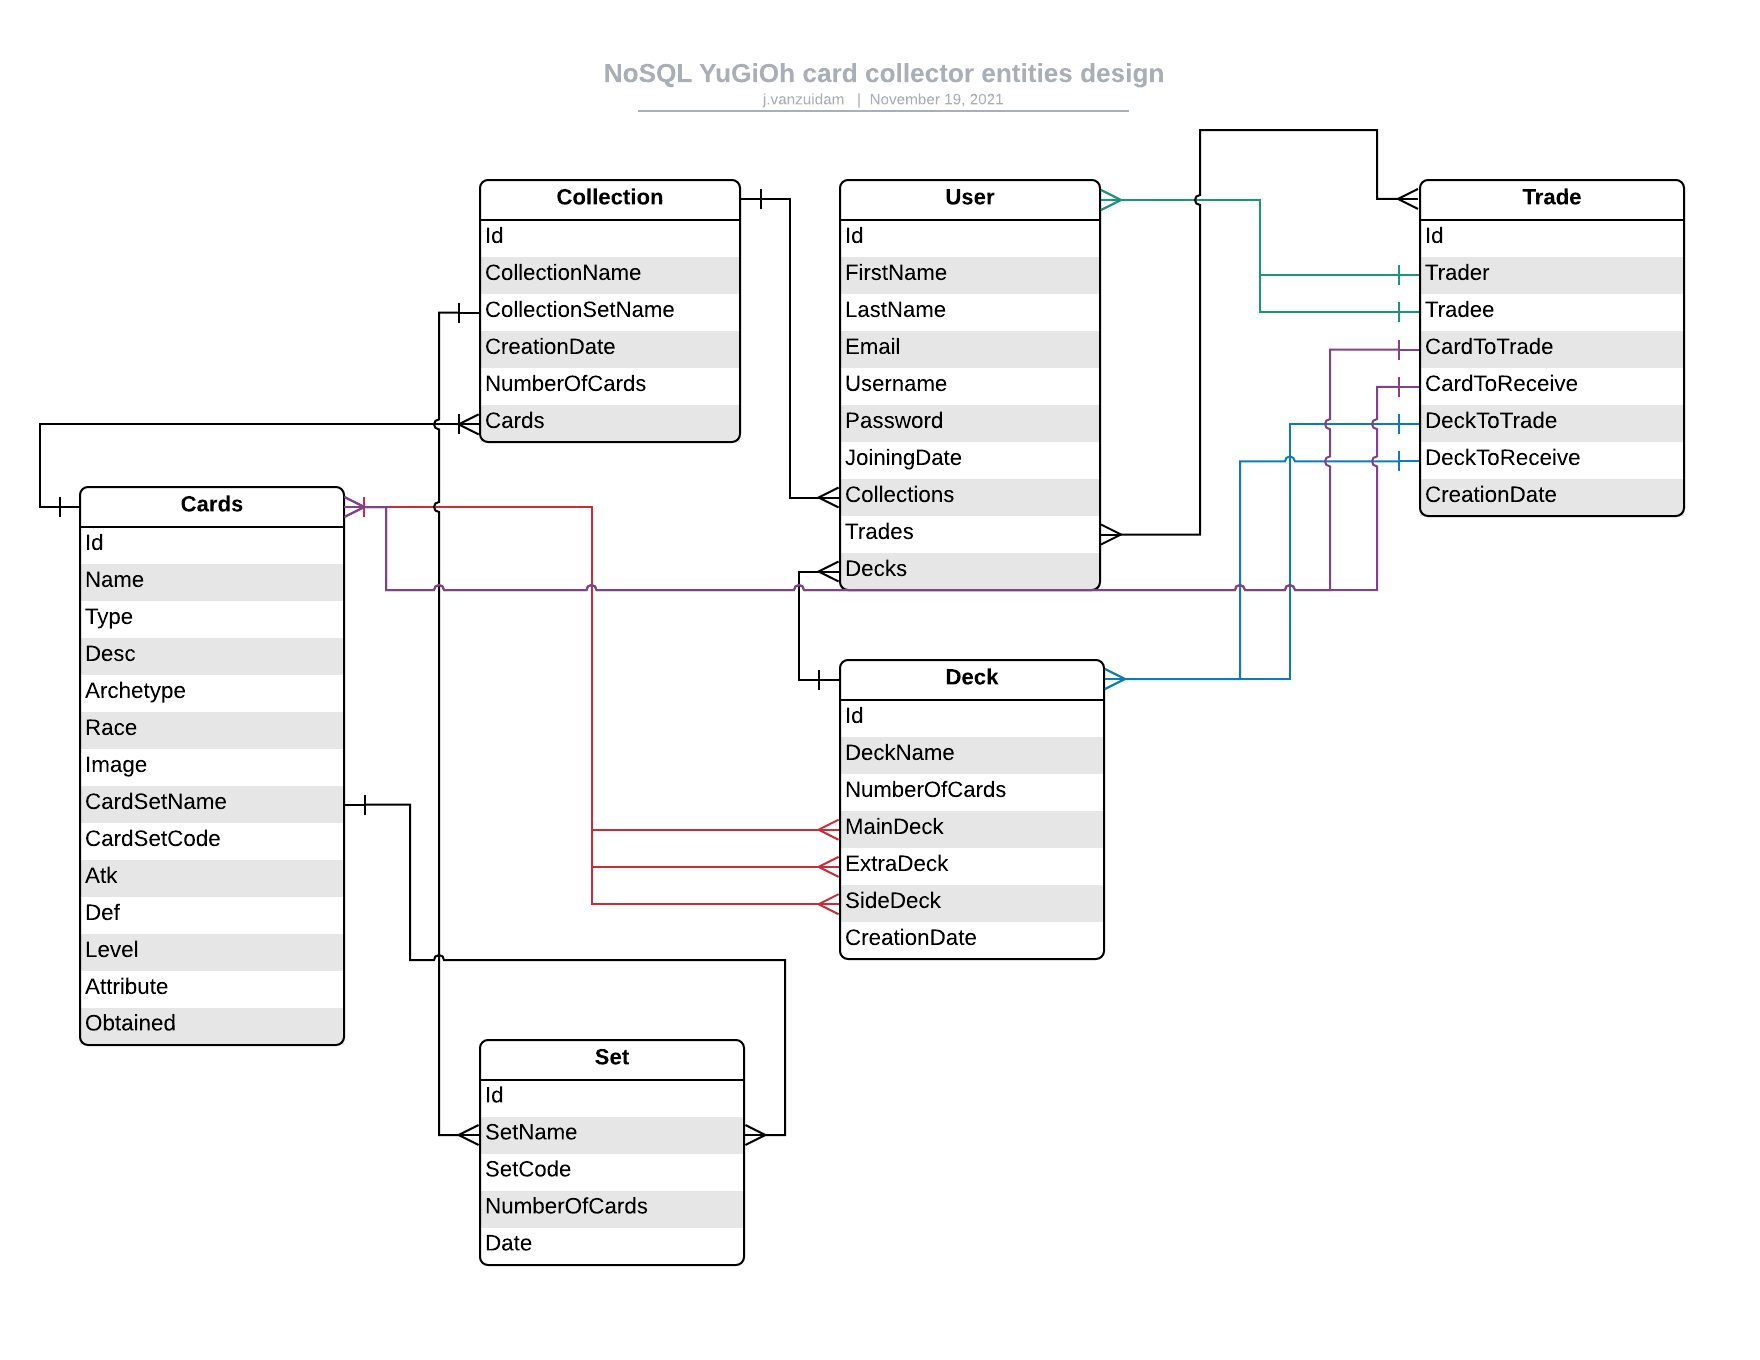
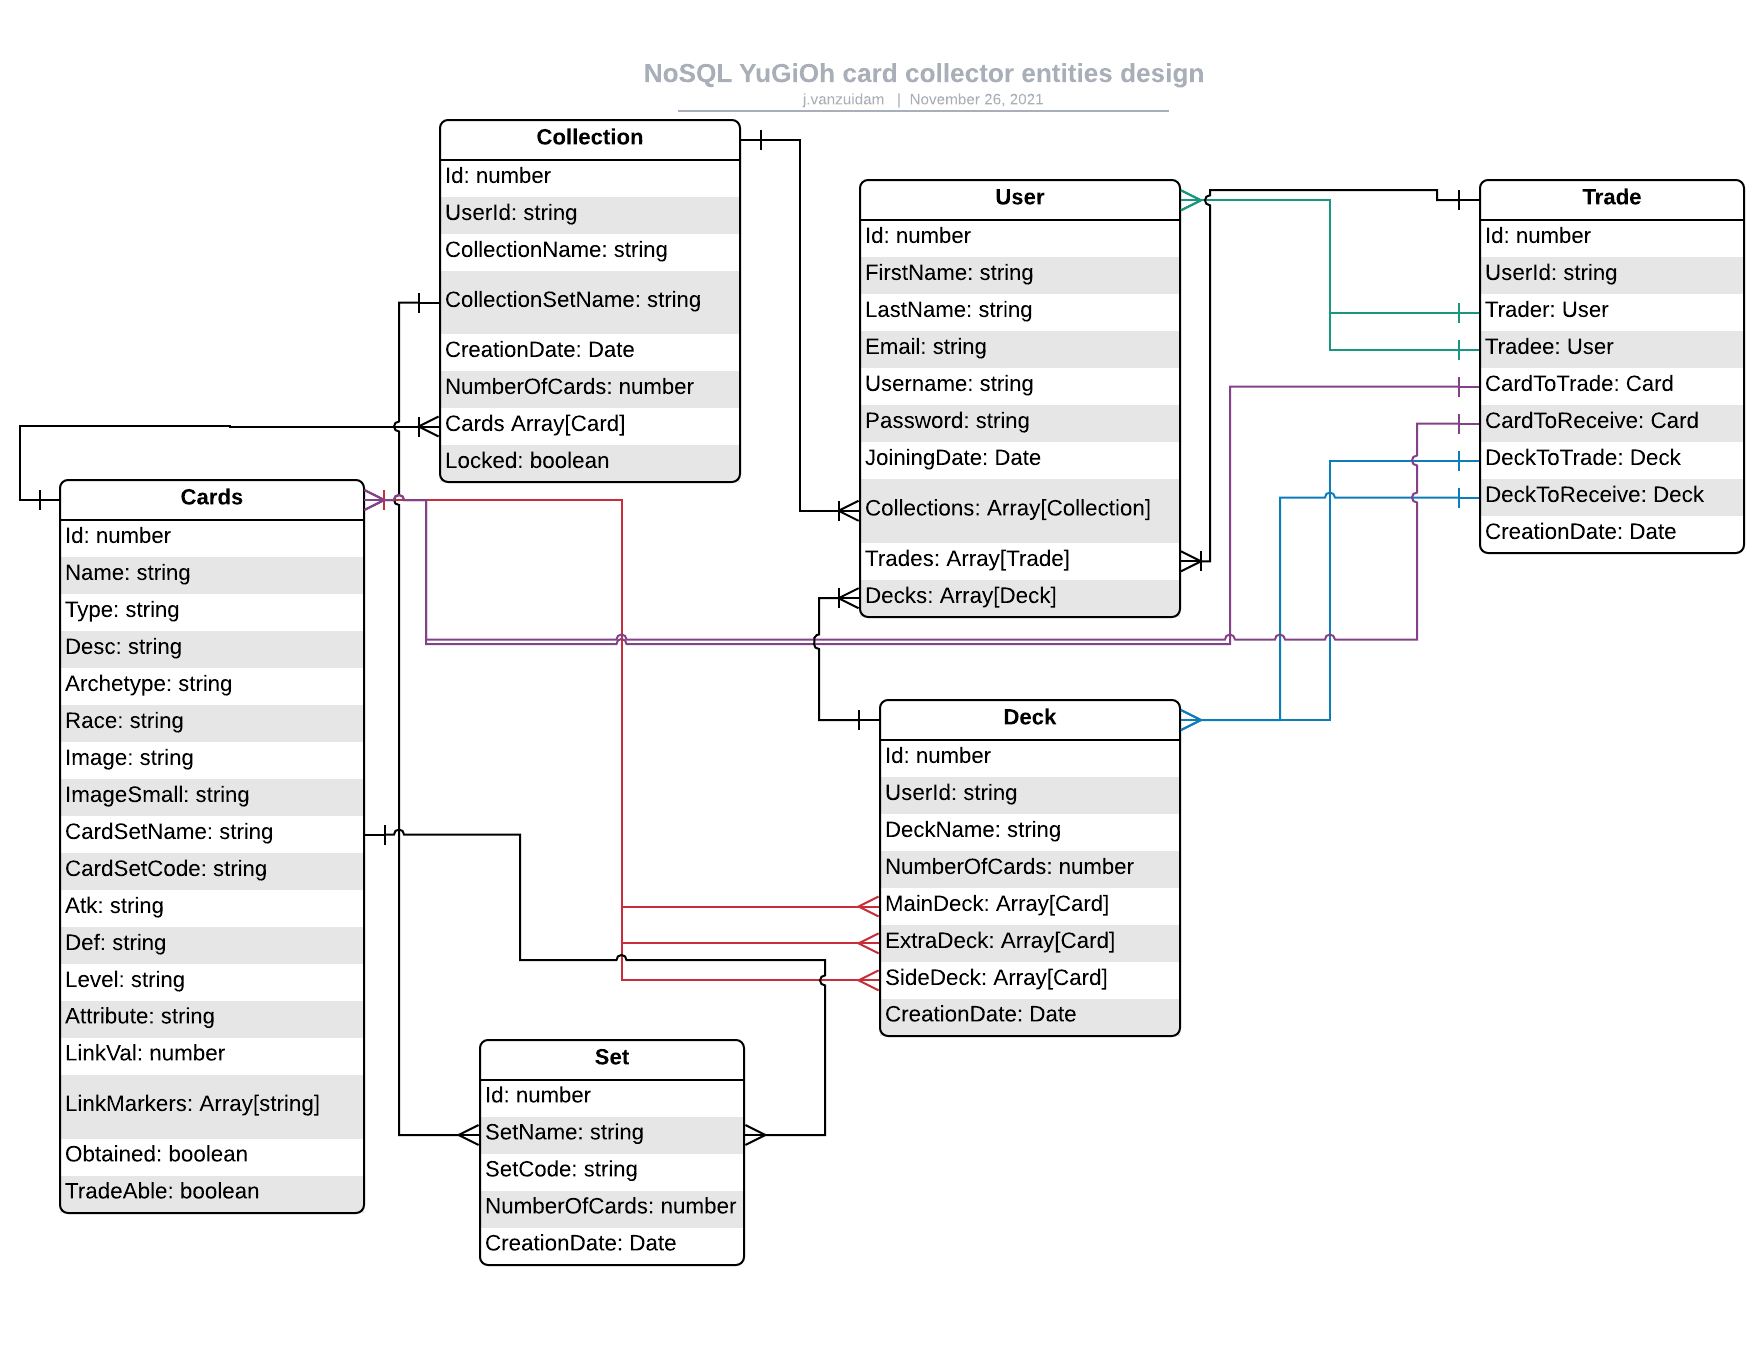
Update collection page + actual frontend edits, extra attributes for the user model

diff --git a/src/app/components/collection/collection-new/collection-new.component.html b/src/app/components/collection/collection-new/collection-new.component.html
@@ -2,30 +2,32 @@
   <div class="row">
     <div class="col-md4 col-md-offset-4">
       <form role="form" class="form-horizontal">
-        <div class="form-group">
-          <label class="col-sm-2 control-label">collection name</label>
-          <div class="col-sm-10">
-            <input type="text" name="collectionName" placeholder="Collection name" class="form-control" required [(ngModel)]="collection.collectionName"  #collectionName="ngModel">
-            <div *ngIf="collectionName.invalid && (collectionName.dirty || collectionName.touched)"
-                 class="alert alert-danger">
-              <div *ngIf="collectionName.errors?.['required']">
-                A name for your collection is required
+        <fieldset>
+          <div class="form-group">
+            <label class="col-sm-2 control-label">collection name</label>
+            <div class="col-sm-10">
+              <input type="text" name="collectionName" placeholder="Collection name" class="form-control" required [(ngModel)]="collection.collectionName"  #collectionName="ngModel">
+              <div *ngIf="collectionName.invalid && (collectionName.dirty || collectionName.touched)"
+                   class="alert alert-danger">
+                <div *ngIf="collectionName.errors?.['required']">
+                  A name for your collection is required
+                </div>
+              </div>
+            </div>
+            <label class="col-sm-2 control-label">Choose your set</label>
+            <div class="col-10">
+              <select [(ngModel)]="setName" [ngModelOptions]="{standalone: true}" required #data="ngModel">
+                <option *ngFor="let data of setNames" [ngValue]="data" > {{data}}</option>
+              </select>
+              <div *ngIf="data.invalid && (data.dirty || data.touched)" class="alert alert-danger">
+                <div *ngIf="data.errors?.['required']">
+                  A name for your collection is required
+                </div>
               </div>
             </div>
           </div>
-          <label class="col-sm-2 control-label">Choose your set</label>
-          <div class="col-10">
-            <select [(ngModel)]="setName" [ngModelOptions]="{standalone: true}" required #data="ngModel">
-              <option *ngFor="let data of setNames" [ngValue]="data" > {{data}}</option>
-            </select>
-            <div *ngIf="data.invalid && (data.dirty || data.touched)" class="alert alert-danger">
-              <div *ngIf="data.errors?.['required']">
-                A name for your collection is required
-              </div>
-            </div>
-          </div>
-        </div>
-        <button [disabled]="(!collection.collectionName || !setName)" type="submit" class="btn btn-primary" (click)="onSubmit(collection.collectionName)">Create</button>
+          <button [disabled]="(!collection.collectionName || !setName)" type="submit" class="btn btn-primary" (click)="onSubmit(collection.collectionName)">Create</button>
+        </fieldset>
       </form>
     </div>
   </div>

diff --git a/src/app/components/collection/collection-edit/collection-edit.component.html b/src/app/components/collection/collection-edit/collection-edit.component.html
@@ -1,1 +1,37 @@
-<p>collection-edit works!</p>
+<div class="container bg-light">
+  <div class="row">
+    <div class="col-md-4 col-md-offset-4">
+      <form class="form-horizontal" role="form">
+        <fieldset>
+          <h1>Edit collection</h1>
+          <div class="form-group">
+            <label class="col-sm-10 control-label">Collection name</label>
+            <div class="col-sm-10">
+              <input type="text" name="firstname" value="{{collection.collectionName}}" placeholder="name" class="form-control" required [(ngModel)]="collection.collectionName" #collectionName="ngModel">
+              <div *ngIf="collectionName.invalid && (collectionName.dirty || collectionName.touched)"
+                   class="alert alert-danger">
+                <div *ngIf="collectionName.errors?.['required']">
+                  A name for your collection is required
+                </div>
+              </div>
+            </div>
+            <label class="col-sm-10 control-label">Lock the collection?</label>
+
+            <div class="col-10">
+              <select [ngModel]="locked" (ngModelChange)="onChange($event)" [ngModelOptions]="{standalone: true}" required #optionSelected="ngModel">
+                <option value="false">No</option>
+                <option value="True">Yes</option>
+              </select>
+              <div *ngIf="optionSelected.invalid && (optionSelected.dirty || optionSelected.touched)" class="alert alert-danger">
+                <div *ngIf="optionSelected.errors?.['required']">
+                  Locked is a required value
+                </div>
+              </div>
+            </div>
+            <button [disabled]="(!collection.collectionName || !optionSelected)" type="submit" class="btn btn-primary" (click)="onSubmit()">Update</button>
+          </div>
+        </fieldset>
+      </form>
+    </div>
+  </div>
+</div>

diff --git a/src/app/services/user.service.ts b/src/app/services/user.service.ts
@@ -13,7 +13,10 @@ export class UserService {
       username: 'SwiftGale',
       email: 'jimvanzuidam@hotmail.nl',
       password: '',
-      creationDate: new Date()
+      creationDate: new Date(),
+      collections: [],
+      trades: [],
+      decks: []
     },
     {
       id: 1,
@@ -22,7 +25,10 @@ export class UserService {
       username: 'GekkeHenkie',
       email: 'Abc@email.nl',
       password: '',
-      creationDate: new Date()
+      creationDate: new Date(),
+      collections: [],
+      trades: [],
+      decks: []
     },
     {
       id: 2,
@@ -31,7 +37,10 @@ export class UserService {
       username: 'JoJoJapie',
       email: 'Test@company.com',
       password: '',
-      creationDate: new Date()
+      creationDate: new Date(),
+      collections: [],
+      trades: [],
+      decks: []
     },
     {
       id: 3,
@@ -40,7 +49,10 @@ export class UserService {
       username: 'Arie123',
       email: 'Bitterbal@email.com',
       password: '',
-      creationDate: new Date()
+      creationDate: new Date(),
+      collections: [],
+      trades: [],
+      decks: []
     },
     {
       id: 4,
@@ -49,7 +61,10 @@ export class UserService {
       username: 'Lisa321',
       email: 'Avans@student.nl',
       password: '',
-      creationDate: new Date()
+      creationDate: new Date(),
+      collections: [],
+      trades: [],
+      decks: []
     },
   ]
 

diff --git a/src/app/components/collection/collection-edit/collection-edit.component.ts b/src/app/components/collection/collection-edit/collection-edit.component.ts
@@ -1,4 +1,7 @@
 import { Component, OnInit } from '@angular/core';
+import {collectionModel} from "../../../models/collection.model";
+import {ActivatedRoute, Router} from "@angular/router";
+import {CollectionService} from "../../../services/collection.service";
 
 @Component({
   selector: 'app-collection-edit',
@@ -6,10 +9,36 @@ import { Component, OnInit } from '@angular/core';
   styleUrls: ['./collection-edit.component.css']
 })
 export class CollectionEditComponent implements OnInit {
+  locked: any;
+  collectionId: string | null = null;
+  collection: collectionModel | null = null;
+  UpdatedCollection: any
 
-  constructor() { }
+  constructor(
+    private route: ActivatedRoute,
+    private router: Router,
+    private collectionService: CollectionService
+  ) { }
 
   ngOnInit(): void {
+    this.route.paramMap.subscribe((params) => {
+      this.collectionId = params.get('id')
+
+      if (this.collectionId) {
+        //Collection exists
+        this.collection = this.collectionService.getCollectionById(Number(this.collectionId))
+        this.UpdatedCollection = this.collection;
+      }
+    });
   }
 
+  onSubmit() {
+    console.log("Collection bewerking opslaan aangeroepen");
+    this.router.navigate(['..'], {relativeTo: this.route});
+  }
+
+  onChange(newValue: boolean) {
+    console.log(newValue);
+    this.UpdatedCollection.locked = newValue;
+  }
 }

diff --git a/src/app/components/collection/collection-list/collection-list.component.html b/src/app/components/collection/collection-list/collection-list.component.html
@@ -6,10 +6,11 @@
     <table class="table table-striped table-hover bg-light">
       <thead>
       <th>Id</th>
-      <th>collectionName</th>
-      <th>collection SetName</th>
+      <th>CollectionName</th>
+      <th>Collection SetName</th>
       <th>NumberOfCards</th>
-      <th>Created</th>
+<!--      <th>Created</th>-->
+      <th>Locked</th>
       </thead>
       <tbody>
       <tr *ngFor="let collection of collections">
@@ -21,7 +22,8 @@
         <td>{{ collection.collectionName }}</td>
         <td>{{ collection.collectionSetName }}</td>
         <td>{{ collection.numberOfCards }}</td>
-        <td>{{ collection.creationDate }}</td>
+<!--        <td>{{ collection.creationDate }}</td>-->
+        <td>{{ collection.locked }}</td>
         <button class="btn-danger text-black" id="remove" (click)="deleteRow(collection.id, collection.collectionName)">DELETE COLLECTION</button>
       </tr>
       </tbody>

diff --git a/src/app/models/user.model.ts b/src/app/models/user.model.ts
@@ -1,3 +1,7 @@
+import {collectionModel} from "./collection.model";
+import {tradeModel} from "./trade.model";
+import {deckModel} from "./deck.model";
+
 export class userModel {
   id: number = 0;
   firstname: string = '';
@@ -6,6 +10,9 @@ export class userModel {
   email: string = '';
   password: string = '';
   creationDate: Date | undefined;
+  collections: collectionModel[] | null = null;
+  trades: tradeModel[] | null = null;
+  decks: deckModel[] | null = null;
 
   constructor(firstname: '', lastname: '', username: '', email: '', password: '') {
     this.firstname = firstname;

diff --git a/src/app/components/collection/collection-detail/collection-detail.component.html b/src/app/components/collection/collection-detail/collection-detail.component.html
@@ -8,10 +8,12 @@
     <p>Set: {{ collection.collectionSetName }}</p>
     <p>Amount: {{ collection.numberOfCards }}</p>
     <p>Set Created On: {{ collection.creationDate }}</p>
+    <p> Locked: {{collection.locked}}</p>
       <div class="col-2" *ngFor="let a of collection.cards">
         <a *ngIf="a.obtained" (click)="openCardDetail(a.id)"><img src="{{ a.imageSmall }}" alt=""></a>
         <a id="wrapper" *ngIf="!a.obtained" (click)="openCardDetail(a.id)"><img id="myImage" src="{{ a.imageSmall }}" alt=""></a>
       </div>
+
   </div>
 
 </div>

diff --git a/src/app/components/user/user-edit/user-edit.component.html b/src/app/components/user/user-edit/user-edit.component.html
@@ -65,7 +65,7 @@
           <div class="form-group">
             <div class="col-sm-offset-2 col-sm-10">
               <div class="pull-right">
-                <button  type="submit" class="btn btn-primary" style="margin: 4px;" (click)="onSubmit()">Save</button>
+                <button  type="submit" class="btn btn-primary" style="margin: 4px;" (click)="onSubmit()">Update</button>
                 <button class="btn btn-default" routerLink="..">cancel</button>
               </div>
             </div>

diff --git a/src/app/components/user/user-edit/user-edit.component.ts b/src/app/components/user/user-edit/user-edit.component.ts
@@ -27,11 +27,11 @@ export class UserEditComponent implements OnInit {
         this.user = this.userService.getUserById(Number(this.userId));
 
       }
-    })
+    });
   }
 
   onSubmit() {
-    console.log("Save called");
+    console.log("User bewerking opslaan aangeroepen");
     this.router.navigate(['..'], {relativeTo: this.route});
   }
 }
